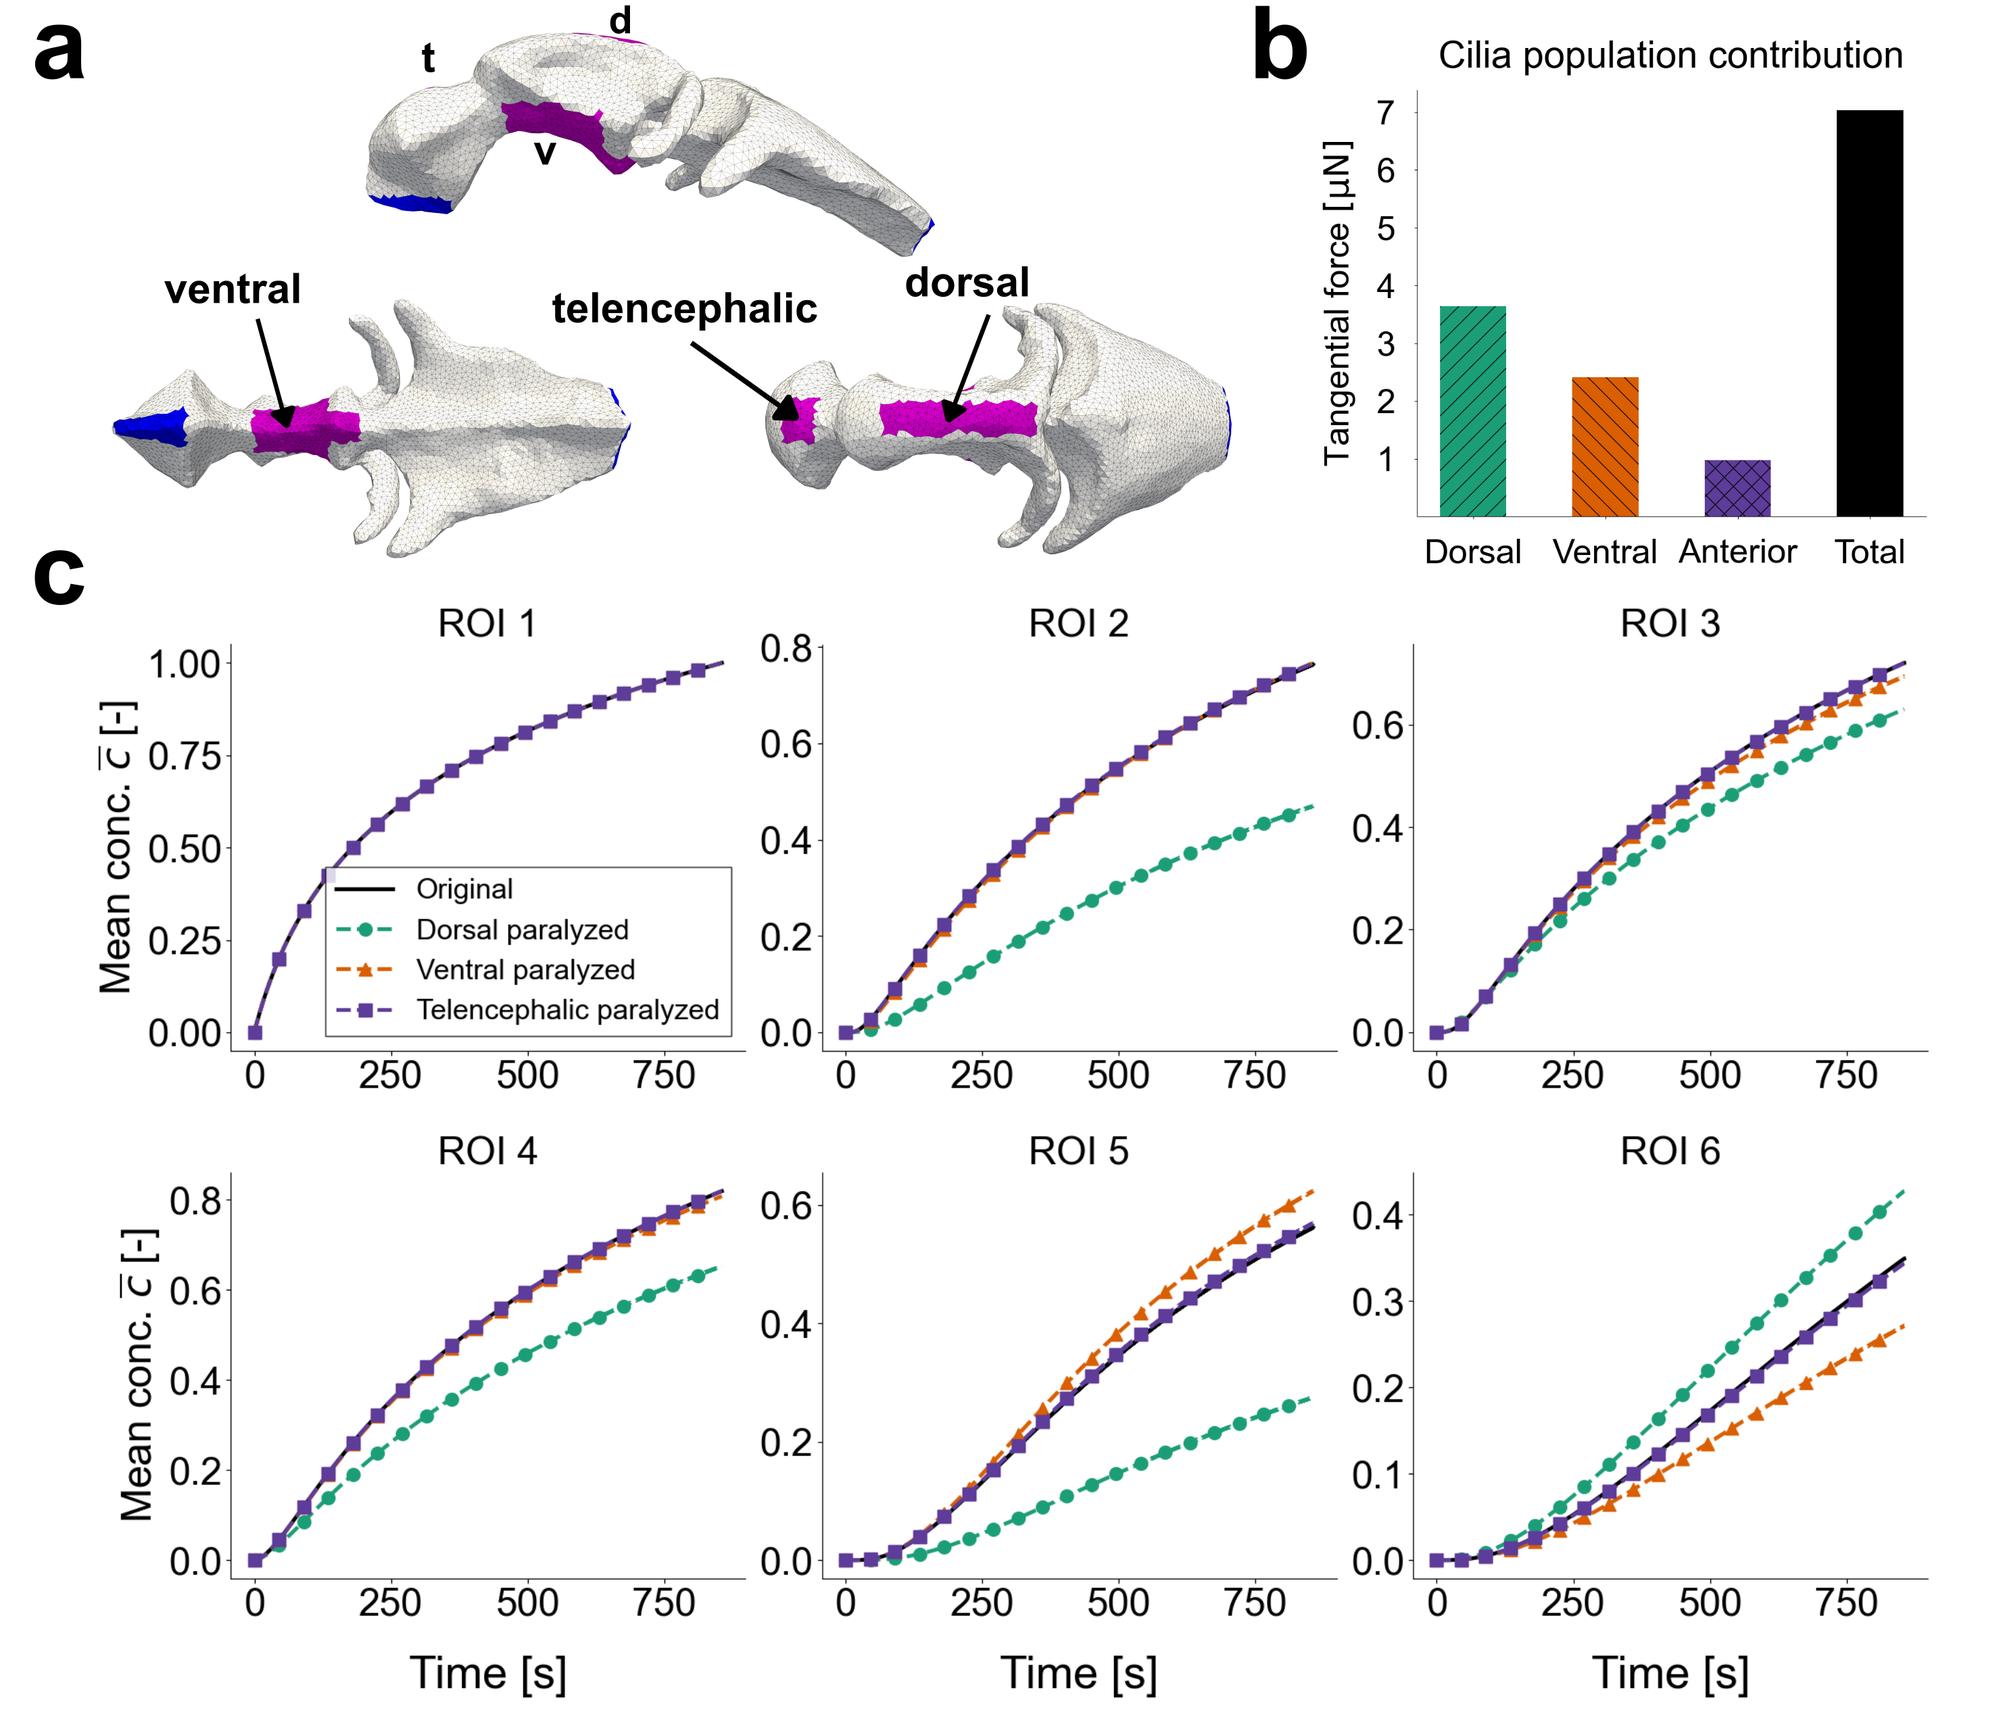
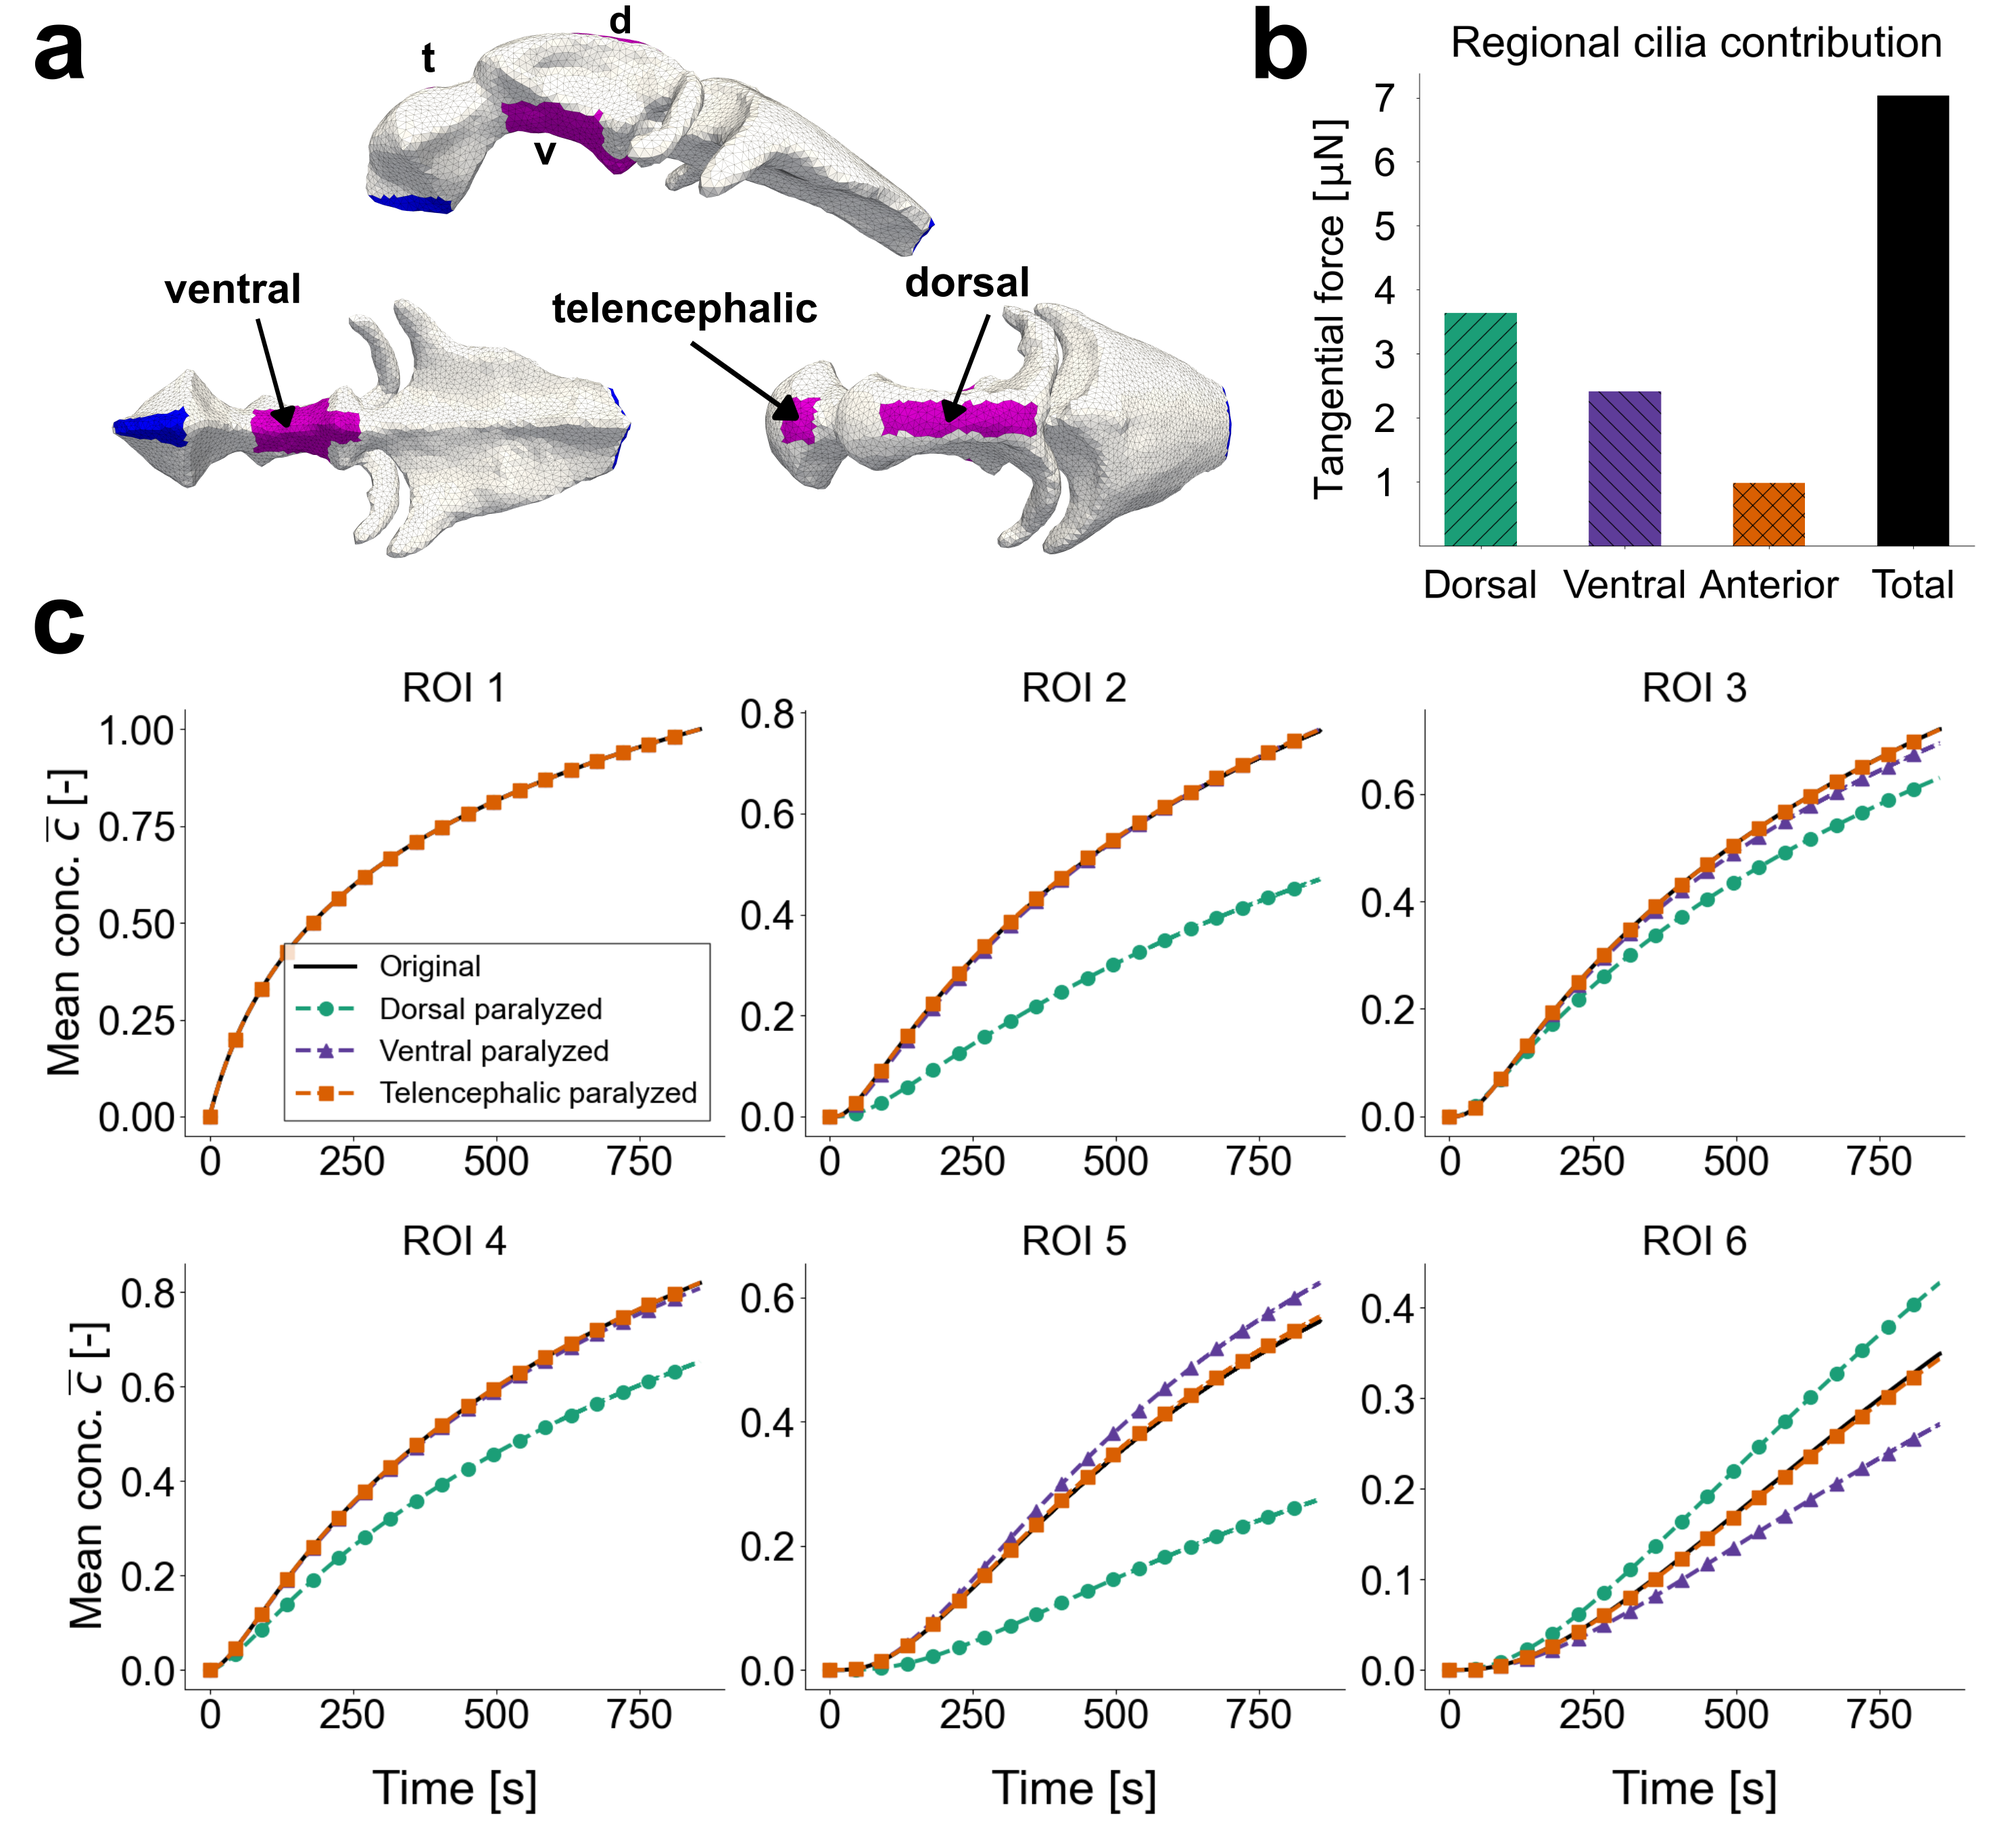
update figures 5 and 6 and plot code

diff --git a/src/plot_compare_simulations_geometry.py b/src/plot_compare_simulations_geometry.py
@@ -31,8 +31,7 @@ Author: Halvor Herlyng, 2024.
 
 # Set matplotlib properties
 plt.rcParams.update({
-    "text.usetex" : True,
-    "font.family" : "sans-serif",
+    "font.family" : "Arial",
     "axes.spines.top" : False,
     "axes.spines.right" : False
 })
@@ -123,7 +122,7 @@ green = cm.dark2_3.colors[0]
 orange = cm.dark2_3.colors[1]
 purple = cm.puor_4.colors[3]
 yellow = cm.puor_4.colors[1]
-colors = ['k', green, orange, purple, yellow]
+colors = ['k', green, purple, orange, yellow]
 print([colors[i]*255 for i in range(1, len(colors))])
 
 # Plot concentrations
@@ -134,9 +133,9 @@ for row_idx in range(ax_c.shape[0]):
         ca_c = ax_c[row_idx, col_idx]
     
         ca_c.plot(times, c_bar1[:, idx], color=colors[0], label='Original', linewidth=lw)
-        ca_c.plot(times, c_bar2[:, idx], color=colors[1], linestyle='--', marker='o', markevery=2000, label='Fore', linewidth=lw, markersize=msize)
-        ca_c.plot(times, c_bar3[:, idx], color=colors[2], linestyle='--', marker='^', markevery=2000, label='Middle', linewidth=lw, markersize=msize)
-        ca_c.plot(times, c_bar4[:, idx], color=colors[3], linestyle='--', marker='s', markevery=2000, label='Hind', linewidth=lw, markersize=msize)
+        ca_c.plot(times, c_bar2[:, idx], color=colors[1], linestyle='--', marker='o', markevery=2000, label='Shrunk fore-mid', linewidth=lw, markersize=msize)
+        ca_c.plot(times, c_bar3[:, idx], color=colors[2], linestyle='--', marker='^', markevery=2000, label='Shrunk middle', linewidth=lw, markersize=msize)
+        ca_c.plot(times, c_bar4[:, idx], color=colors[3], linestyle='--', marker='s', markevery=2000, label='Shrunk mid-hind', linewidth=lw, markersize=msize)
         ca_c.plot(times, c_bar5[:, idx], color=colors[4], linestyle='--', marker='p', markevery=2000, label='Fore+middle+hind', linewidth=lw, markersize=msize)
 
         ca_c.set_title(f'ROI {tag}', fontsize=30, pad=2.0)
@@ -145,35 +144,11 @@ for row_idx in range(ax_c.shape[0]):
         
         if col_idx==0: ca_c.set_ylabel(r"Mean conc. $\overline{c}$ [-]", fontsize=32)    
         if row_idx==(ax_c.shape[0]-1): ca_c.set_xlabel("Time [s]", fontsize=35, labelpad=25)
-        if tag==1: ca_c.legend(loc='lower right', fontsize=28, frameon=True, fancybox=False, edgecolor='k')
+        if tag==1: ca_c.legend(loc='lower right', fontsize=22, frameon=True, fancybox=False, edgecolor='k')
 
         idx += 1
 
 plt.tight_layout()
 plt.subplots_adjust(hspace=0.30)
 if save_figs: fig_c.savefig(f"../output/illustrations/compare_geometry/all_ROIs_model{model_version}.png")
-
-cols = range(5)
-final_c = pd.DataFrame(index=ROI_tags, columns=cols)
-for i, c_bar in enumerate([c_bar1, c_bar2, c_bar3, c_bar4, c_bar5]):
-    final_c[i] = c_bar[-1, :]
-
-fig_bars, ax_bars = plt.subplots(num=4, figsize=[18, 8])
-final_c.reset_index(inplace=True)
-bars = final_c.plot.bar(x='index', y=cols,
-                         color=colors,
-                         ax=ax_bars, rot=True, width=0.75)
-hatches = ['', '\\', 'x', '/', '^']
-for bar_container, hatch in zip(bars.containers, hatches):
-    for bar in bar_container:
-        bar.set_hatch(hatch)
-
-ax_bars.set_xlabel("ROI number", fontsize=35, labelpad=25)
-ax_bars.set_ylabel(r"Final mean concentration $\bar{c}(T)$ [-]", fontsize=35, labelpad=50)
-ax_bars.tick_params(labelsize=35)
-ax_bars.get_legend().remove()
-# ax_bars.legend(labels=['Original', 'Fore', 'Middle', 'Hind', 'Fore+middle+hind'], loc='right', fontsize=32, frameon=True, fancybox=False, edgecolor='k')
-fig_bars.tight_layout()
-
-if save_figs: fig_bars.savefig(f"../output/illustrations/compare_geometry/final_concentrations_model{model_version}.png")
 plt.show()

diff --git a/src/plot_cilia_force_bars.py b/src/plot_cilia_force_bars.py
@@ -1,7 +1,7 @@
-import numpy  as np
+import numpy     as np
+import pandas    as pd
+import colormaps as cm
 import matplotlib.pyplot as plt
-
-plt.style.use('petroff10')
 
 # Set matplotlib properties
 plt.rcParams.update({
@@ -10,13 +10,18 @@ plt.rcParams.update({
     "axes.spines.right" : False
 })
 
-save_fig = 1
+save_figs = 1
+regions = ['Dorsal', 'Ventral', 'Anterior', 'Total']
+versions = ['Original', 'Shrunk fore-mid', 'Shrunk middle', 'Shrunk mid-hind', 'Fore+middle+hind']
 
-import colormaps as cm
+
+##########################
+##  FIGURE 5 BAR PLOT   ##
+##########################
 green = cm.dark2_3.colors[0]
 orange = cm.dark2_3.colors[1]
 purple = cm.puor_4.colors[3]
-colors = [green, orange, purple, 'k']
+colors = [green, purple, orange, 'k']
 
 fig, ax = plt.subplots(figsize=[11.35, 10])
 idx = [1, 2, 3, 4]
@@ -27,13 +32,59 @@ forces = np.array([3.64E-06, 2.41E-06, 9.78E-07, 7.03E-06])*1e6 # Forces in micr
 hatches = ['/', '\\', 'x', '']
 bars = ax.bar(x=idx, height=forces, width=0.5, color=colors, hatch=hatches)
 
-ax.set_title('Cilia population contribution', fontsize=50, pad=30)
-ax.set_ylabel(r'Tangential force $\mathrm{[\mu N]}$', fontsize=45, labelpad=25)
+ax.set_title('Regional cilia contribution', fontsize=52, pad=20)
+ax.set_ylabel(r'Tangential force $\mathrm{[\mu N]}$', fontsize=48, labelpad=25)
 ax.set_yticks(range(1, 8))
 ax.set_xticks(idx)
-ax.set_xticklabels(['Dorsal', 'Ventral', 'Anterior', 'Total'], fontsize=45)
-ax.tick_params(axis='both', labelsize=45, pad=25)
+ax.set_xticklabels(regions, fontsize=48)
+ax.tick_params(axis='both', labelsize=48, pad=25)
 fig.tight_layout()
 
-if save_fig: fig.savefig('../output/illustrations/compare_cilia/cilia_forces_bar_plot.png')
+if save_figs: fig.savefig('../output/illustrations/compare_cilia/fig5_cilia_forces_bar_plot.png')
+
+##########################
+##  FIGURE 5 BAR PLOT   ##
+##########################
+green = cm.dark2_3.colors[0]
+orange = cm.dark2_3.colors[1]
+purple = cm.puor_4.colors[3]
+yellow = cm.puor_4.colors[1]
+colors = ['k', green, purple, orange, yellow]
+
+# Forces applied [dorsal, ventral, anterior, total] in micro Newton
+forces = np.array([[3.64E-06, 2.41E-06, 9.78E-07, 7.03E-06],
+                   [3.63E-06, 2.18E-06, 8.20E-07, 6.63E-06],
+                   [3.63E-06, 2.57E-06, 9.55E-07, 7.16E-06],
+                   [3.48E-06, 2.41E-06, 9.14E-07, 6.80E-06],
+                   [3.71E-06, 2.33E-06, 7.65E-07, 6.80E-06]])*1e6
+for i in range(forces.shape[1]):
+    forces[:, i] /= forces[0, i]
+forces = forces*100
+
+df_forces = pd.DataFrame(data=forces.T, columns=versions, index=regions)
+fig_bars, ax_bars = plt.subplots(figsize=[14, 4.5])
+df_forces.reset_index(inplace=True)
+
+print(df_forces)
+bars = df_forces.plot.bar(x='index', y=versions, width=0.65,
+                          color=colors, ax=ax_bars, rot=True)
+
+hatches = ['', '\\', 'x', '/', '+']
+for bar_container, hatch in zip(bars.containers, hatches):
+    for bar in bar_container:
+        bar.set_hatch(hatch)
+
+
+ax_bars.legend(labels=versions, loc='center', bbox_to_anchor=(1.125, 0.5),
+                   fontsize=17, frameon=True, fancybox=False, edgecolor='k')
+ax_bars.set_ylabel('Relative tangential force [%]', fontsize=22, labelpad=20)
+ax_bars.set_ylim([65, 115])
+ax_bars.set_yticks([70, 80, 90, 100, 110])
+ax_bars.set_xticks([])
+ax_bars.set_xticks(df_forces.index.values)
+ax_bars.set_xticklabels(regions)
+ax_bars.set_xlabel('')
+ax_bars.tick_params(axis='both', labelsize=20)
+fig_bars.subplots_adjust(right=0.80, left=0.1)
+if save_figs: fig_bars.savefig('../output/illustrations/compare_geometry/fig6_cilia_forces_bar_plot.png')
 plt.show()

diff --git a/src/plot_compare_simulations_cilia_regions.py b/src/plot_compare_simulations_cilia_regions.py
@@ -85,7 +85,7 @@ import colormaps as cm
 green = cm.dark2_3.colors[0]
 orange = cm.dark2_3.colors[1]
 purple = cm.puor_4.colors[3]
-colors = ['k', green, orange, purple]
+colors = ['k', green, purple, orange]
 
 # Plot concentrations
 idx = 0
@@ -114,30 +114,5 @@ plt.tight_layout()
 plt.subplots_adjust(hspace=0.30)
 save_figs = 1
 if save_figs: fig_c.savefig(f"../output/illustrations/compare_cilia/concentrations_model{model_version}.png")
-
-
-cols = range(4)
-final_c = pd.DataFrame(index=ROI_tags, columns=cols)
-for i, c_bar in enumerate([c_bar_original, c_bar_dorsal, c_bar_ventral, c_bar_telenc]):
-    final_c[i] = c_bar[-1, :]
-
-fig_bars, ax_bars = plt.subplots(num=4, figsize=[18, 8])
-final_c.reset_index(inplace=True)
-bars = final_c.plot.bar(x='index', y=cols,
-                         color=colors,
-                         ax=ax_bars, rot=True, width=0.75)
-hatches = ['', '\\', 'x', '/', '^']
-for bar_container, hatch in zip(bars.containers, hatches):
-    for bar in bar_container:
-        bar.set_hatch(hatch)
-
-ax_bars.set_xlabel("ROI number", fontsize=35, labelpad=25)
-ax_bars.set_ylabel(r"Final mean concentration $\bar{c}(T)$ [-]", fontsize=35, labelpad=50)
-ax_bars.tick_params(labelsize=35)
-ax_bars.get_legend().remove()
-# ax_bars.legend(labels=['Original', 'Fore', 'Middle', 'Hind', 'Fore+middle+hind'], loc='right', fontsize=32, frameon=True, fancybox=False, edgecolor='k')
-fig_bars.tight_layout()
-
-if save_figs: fig_bars.savefig(f"../output/illustrations/compare_cilia/final_concentrations_model{model_version}.png")
 
 plt.show()

diff --git a/paper/main.tex b/paper/main.tex
@@ -950,9 +950,13 @@ in the cilia-deficient computational model compared to the experimental data in
     to the original mesh, the volumes of the deformed meshes are reduced by 3.9\%, 4.1\%, 1.4\% 
     and 9.4\%.
     \textbf{c.} Mean concentration $\cbar(t)$ simulated with the original and modified geometries
-    in the 6 ROIs. 
-    \mk{MK: How do the different geoemtries compare in terms of volume,
-    areas where cilia are active?} \lyng{HH: Good question, will add this information.}}
+    in the 6 ROIs.
+    \textbf{d.} A comparison of the tangential cilia force in the three cilia regions
+    and the total force applied. In each region, the force $F_{\mathrm{original}}$ 
+    applied on the original mesh is the baseline of 100\%,
+    to which the force $F_i$ of the other mesh versions are compared, where $i$ denotes
+    the case. The bars for the four shrunk scenarios thus
+    display $F_i/F_{\mathrm{original}}\cdot 100\%$.}
     \label{fig:fig6}
 \end{figure}
 

diff --git a/src/plot_mean_concentration.py b/src/plot_mean_concentration.py
@@ -51,12 +51,13 @@ f = 2.22
 dt = 1/f/20
 
 # Plot parameters
-save_fig = 1 # Save figures if set to 1, don't save if set to 0
+save_fig = 0 # Save figures if set to 1, don't save if set to 0
 lw = 6 # linewidth
 
 # Loop over molecules
-transport_data_filename = transport_dir + \
-    f"{tau_version}/{mesh_version}/log_model_{model_version}_{molecule}_DG1_pressureBC/data/c_hats.npy"
+transport_data_filename = '../output/transport/results/variable_tau+weak_PC/original/model_C_molecule_D2/data/c_hats.npy'
+# transport_dir + \
+# f"{tau_version}/{mesh_version}/log_model_{model_version}_{molecule}_DG1_pressureBC/data/c_hats.npy"
 
 # Load transport data: c_bars = the total concentration in each ROI
 with open(transport_data_filename, "rb") as file: c_bars = np.load(file) 

diff --git a/src/plot_mean_concentration_and_time_to_threshold.py b/src/plot_mean_concentration_and_time_to_threshold.py
@@ -52,7 +52,7 @@ f = 2.22
 dt = 1/f/20
 
 # Plot parameters
-save_figs = 1 # Save figures if set to 1, don't save if set to 0
+save_figs = 0 # Save figures if set to 1, don't save if set to 0
 lw = 8 # linewidth
 msize = 4 # marker size
 
